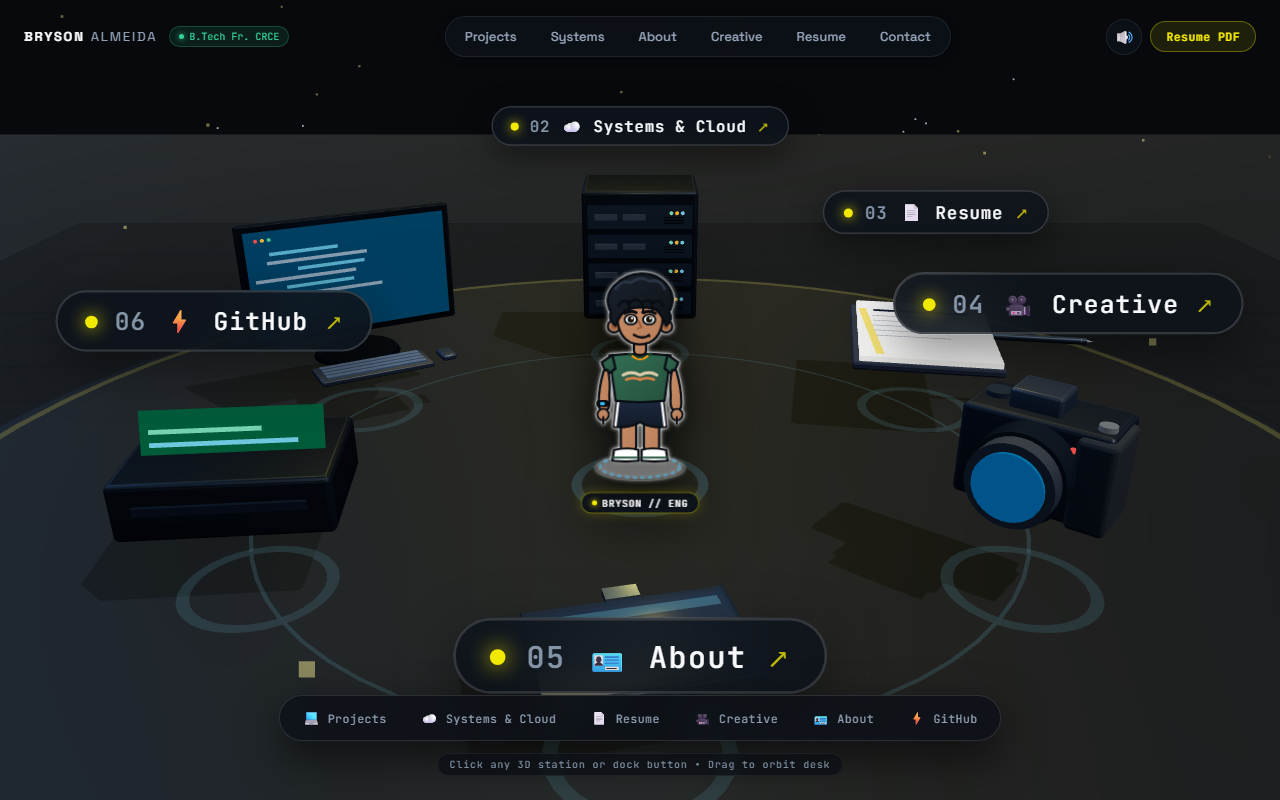
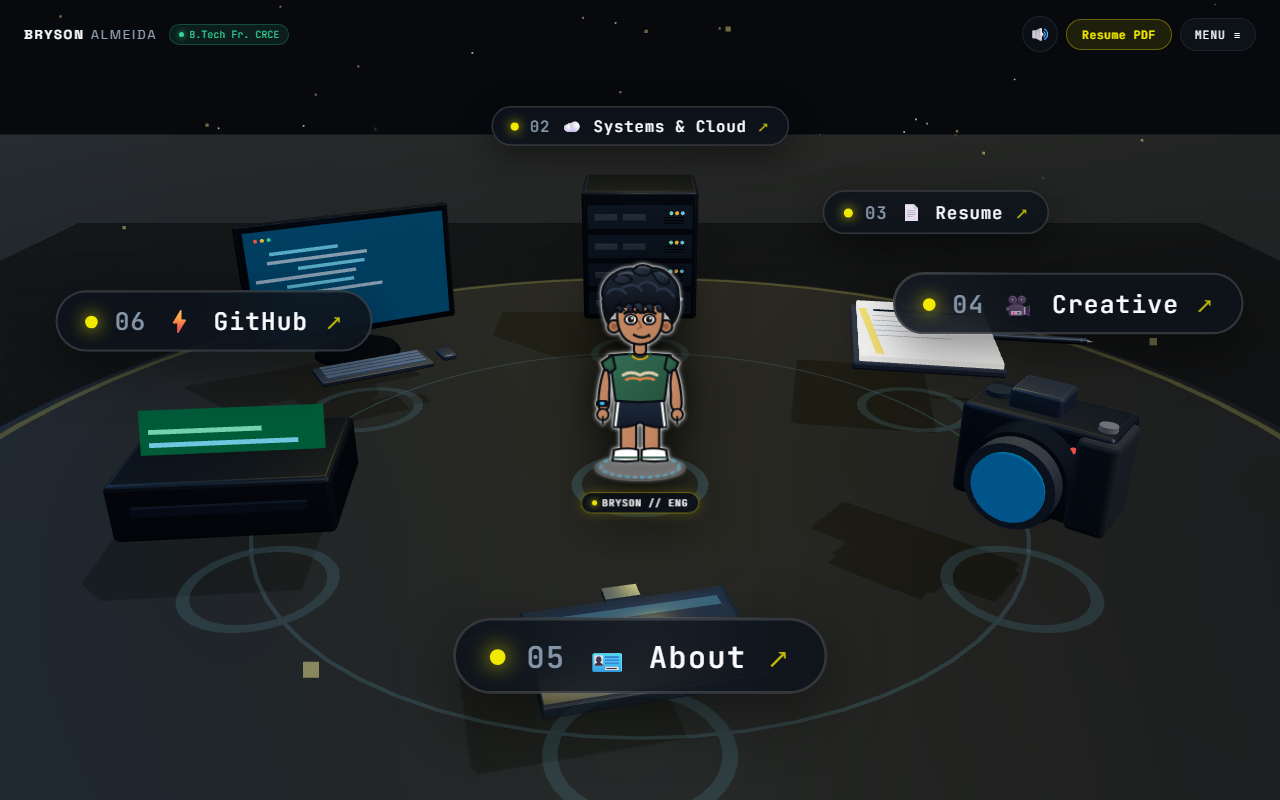
feat: remove redundant top/bottom navigation docks and enhance hair to voluminous curly fringe mop

diff --git a/src/DoodleCharacter.jsx b/src/DoodleCharacter.jsx
@@ -305,9 +305,14 @@ export function DoodleCharacter({
             <stop offset="0%" stopColor="#1E2B40" />
             <stop offset="100%" stopColor="#131B29" />
           </linearGradient>
-          <linearGradient id="hairGrad" x1="0%" y1="0%" x2="100%" y2="100%">
-            <stop offset="0%" stopColor="#1C232E" />
-            <stop offset="100%" stopColor="#0E1217" />
+          <linearGradient id="hairGrad" x1="0%" y1="0%" x2="0%" y2="100%">
+            <stop offset="0%" stopColor="#252F3E" />
+            <stop offset="45%" stopColor="#171F2B" />
+            <stop offset="100%" stopColor="#0B0F16" />
+          </linearGradient>
+          <linearGradient id="hairClumpGrad" x1="0%" y1="0%" x2="100%" y2="100%">
+            <stop offset="0%" stopColor="#2F3C4F" />
+            <stop offset="100%" stopColor="#141B26" />
           </linearGradient>
         </defs>
 
@@ -493,6 +498,20 @@ export function DoodleCharacter({
 
         {/* 6. Head, Eyes, Smirk & Voluminous Curly Hair (Pivot at neck: 140, 120) */}
         <g id="doodle-head" ref={headGroupRef}>
+          {/* Back Curly Hair Silhouette behind ears */}
+          <path
+            d="M98 114
+               C90 100 88 84 94 70
+               C100 56 112 44 126 40
+               C140 36 156 38 168 44
+               C180 50 190 62 192 78
+               C194 92 190 106 182 114
+               C176 96 166 90 154 90
+               C144 90 136 90 126 90
+               C114 90 104 96 98 114 Z"
+            fill="#0B0F16"
+          />
+
           {/* Neck */}
           <rect
             x="132"
@@ -587,52 +606,175 @@ export function DoodleCharacter({
             <path d="M144 106 Q152 110 160 106" fill="url(#skinGrad)" stroke="#0A0E14" strokeWidth="3" />
           </g>
 
-          {/* 7. Voluminous Dark Curly/Wavy Mop-Top Hair (Signature feature from photo) */}
+          {/* 7. Voluminous Dark Curly/Wavy Textured Mop Hair (Signature feature from photo) */}
           <g id="doodle-hair" ref={hairGroupRef}>
-            {/* Base Volume Dome */}
+            {/* Front Voluminous Curly Mop Silhouette */}
             <path
-              d="M102 96 Q92 78 106 62 Q122 46 142 46 Q164 46 176 62 Q188 78 178 96 Q184 106 174 114 Q166 94 158 92 Q142 88 126 92 Q116 94 108 114 Q98 106 102 96 Z"
+              d="M104 100
+                 C94 96 90 86 92 78
+                 C88 68 94 56 104 48
+                 C112 42 122 38 132 40
+                 C138 34 148 34 156 39
+                 C166 38 174 42 182 52
+                 C190 60 192 72 188 82
+                 C190 92 184 98 176 100
+                 C172 92 166 86 160 85
+                 C154 91 149 92 144 86
+                 C139 92 134 92 128 86
+                 C122 91 117 90 114 85
+                 C110 89 106 95 104 100 Z"
               fill="url(#hairGrad)"
               stroke="#0A0E14"
               strokeWidth="3.2"
               strokeLinejoin="round"
             />
-            {/* Curly Texture Clumps on Top Crown */}
+
+            {/* Curly Volume Clumps & Internal Lobes for Deep Texture */}
+            {/* Top-Left Curl Clump */}
             <path
-              d="M108 66 Q116 54 128 58 Q140 48 152 56 Q166 52 172 66"
+              d="M104 54 C112 45 124 46 130 54 C124 62 112 62 104 54 Z"
+              fill="url(#hairClumpGrad)"
+              stroke="#0A0E14"
+              strokeWidth="2.2"
+              strokeLinejoin="round"
+            />
+            {/* High Crown Curl Clump */}
+            <path
+              d="M130 42 C138 35 150 36 156 44 C148 52 136 50 130 42 Z"
+              fill="url(#hairClumpGrad)"
+              stroke="#0A0E14"
+              strokeWidth="2.2"
+              strokeLinejoin="round"
+            />
+            {/* Top-Right Curl Clump */}
+            <path
+              d="M156 44 C166 40 178 48 178 58 C170 64 160 56 156 44 Z"
+              fill="url(#hairClumpGrad)"
+              stroke="#0A0E14"
+              strokeWidth="2.2"
+              strokeLinejoin="round"
+            />
+
+            {/* Glossy Specular Highlights on Curl Crests */}
+            <path
+              d="M112 48 Q122 43 130 46"
               fill="none"
-              stroke="#2B3647"
-              strokeWidth="3.5"
+              stroke="rgba(255, 255, 255, 0.22)"
+              strokeWidth="2.4"
               strokeLinecap="round"
             />
-            {/* Front Bouncy Waves & Loose Curls on Forehead (from photo) */}
             <path
-              d="M112 88 Q118 78 126 84 Q134 76 142 84 Q150 78 158 84 Q166 78 170 88"
+              d="M138 38 Q146 36 152 40"
               fill="none"
-              stroke="#0A0E14"
-              strokeWidth="3.5"
-              strokeLinecap="round"
-            />
-            {/* Loose Curly Fringe Strands */}
-            <path
-              d="M124 84 Q128 92 126 95"
-              fill="none"
-              stroke="#0A0E14"
-              strokeWidth="3"
+              stroke="rgba(255, 255, 255, 0.25)"
+              strokeWidth="2.4"
               strokeLinecap="round"
             />
             <path
-              d="M142 84 Q146 94 143 97"
+              d="M164 44 Q172 46 176 52"
               fill="none"
-              stroke="#0A0E14"
-              strokeWidth="3"
+              stroke="rgba(255, 255, 255, 0.2)"
+              strokeWidth="2.2"
+              strokeLinecap="round"
+            />
+
+            {/* Dynamic Swirling Curl Ribs & Texture Strokes across Mid-Crown */}
+            <path
+              d="M98 72 C104 62 116 66 122 72"
+              fill="none"
+              stroke="#2C384A"
+              strokeWidth="2.8"
               strokeLinecap="round"
             />
             <path
-              d="M154 84 Q158 92 156 95"
+              d="M116 66 C124 58 136 60 142 68"
+              fill="none"
+              stroke="#2C384A"
+              strokeWidth="2.8"
+              strokeLinecap="round"
+            />
+            <path
+              d="M138 62 C146 54 158 56 164 66"
+              fill="none"
+              stroke="#2C384A"
+              strokeWidth="2.8"
+              strokeLinecap="round"
+            />
+            <path
+              d="M162 68 C170 62 180 68 184 76"
+              fill="none"
+              stroke="#2C384A"
+              strokeWidth="2.8"
+              strokeLinecap="round"
+            />
+
+            {/* Signature Textured Forehead Fringe Curls (Framing forehead naturally above brows) */}
+            {/* Left Fringe Curl */}
+            <path
+              d="M108 90 C113 85 119 88 117 95 C115 97 113 97 111 93"
+              fill="url(#hairClumpGrad)"
+              stroke="#0A0E14"
+              strokeWidth="2.6"
+              strokeLinecap="round"
+              strokeLinejoin="round"
+            />
+            {/* Center-Left Bouncy Curl Lock */}
+            <path
+              d="M121 87 C127 82 133 86 130 96 C128 98 125 97 124 93"
+              fill="url(#hairClumpGrad)"
+              stroke="#0A0E14"
+              strokeWidth="2.6"
+              strokeLinecap="round"
+              strokeLinejoin="round"
+            />
+            {/* Center Signature Swirled Curl Lock */}
+            <path
+              d="M133 85 C141 80 146 86 144 96 C142 99 138 98 137 93"
+              fill="url(#hairClumpGrad)"
+              stroke="#0A0E14"
+              strokeWidth="2.8"
+              strokeLinecap="round"
+              strokeLinejoin="round"
+            />
+            {/* Center-Right Forehead Curl */}
+            <path
+              d="M147 87 C154 82 160 87 157 95 C155 98 152 97 150 92"
+              fill="url(#hairClumpGrad)"
+              stroke="#0A0E14"
+              strokeWidth="2.6"
+              strokeLinecap="round"
+              strokeLinejoin="round"
+            />
+            {/* Right Temple Feathered Wave */}
+            <path
+              d="M159 87 C166 83 172 88 168 95 C166 97 163 96 162 91"
+              fill="url(#hairClumpGrad)"
+              stroke="#0A0E14"
+              strokeWidth="2.6"
+              strokeLinecap="round"
+              strokeLinejoin="round"
+            />
+
+            {/* Delicate Accent Curl Wisps on Forehead */}
+            <path
+              d="M119 93 Q121 97 124 96"
               fill="none"
               stroke="#0A0E14"
-              strokeWidth="3"
+              strokeWidth="2"
+              strokeLinecap="round"
+            />
+            <path
+              d="M135 93 Q138 98 141 97"
+              fill="none"
+              stroke="#0A0E14"
+              strokeWidth="2"
+              strokeLinecap="round"
+            />
+            <path
+              d="M149 93 Q152 97 155 96"
+              fill="none"
+              stroke="#0A0E14"
+              strokeWidth="2"
               strokeLinecap="round"
             />
           </g>

diff --git a/src/App.jsx b/src/App.jsx
@@ -866,15 +866,6 @@ export default function App() {
     { id: "github", label: "GitHub", icon: "⚡", n: "06" },
   ];
 
-  const labelMap = {
-    projects: "01 • MONITOR — Selected Projects (Click to open)",
-    systems: "02 • BLADE SERVER — Cloud & Systems Architecture (Click)",
-    resume: "03 • NOTEBOOK — Curriculum Vitae & Resume (Click)",
-    creative: "04 • CAMERA — Video Editing & YouTube Media (Click)",
-    about: "05 • ID BADGE — About Bryson & Journey (Click)",
-    github: "06 • TERMINAL — Live GitHub Repositories (Click)",
-  };
-
   // Keyboard Shortcuts
   useEffect(() => {
     const handleKey = (e) => {
@@ -919,52 +910,6 @@ export default function App() {
             <span className="live-dot" /> B.Tech Fr. CRCE
           </span>
         </div>
-
-        {/* Desktop Quick Nav */}
-        <nav className="top-nav" aria-label="Main Navigation">
-          <button
-            className={`top-nav-btn ${panel === "projects" ? "active" : ""}`}
-            onMouseEnter={() => triggerBlip("hover")}
-            onClick={() => openPanel("projects")}
-          >
-            Projects
-          </button>
-          <button
-            className={`top-nav-btn ${panel === "systems" ? "active" : ""}`}
-            onMouseEnter={() => triggerBlip("hover")}
-            onClick={() => openPanel("systems")}
-          >
-            Systems
-          </button>
-          <button
-            className={`top-nav-btn ${panel === "about" ? "active" : ""}`}
-            onMouseEnter={() => triggerBlip("hover")}
-            onClick={() => openPanel("about")}
-          >
-            About
-          </button>
-          <button
-            className={`top-nav-btn ${panel === "creative" ? "active" : ""}`}
-            onMouseEnter={() => triggerBlip("hover")}
-            onClick={() => openPanel("creative")}
-          >
-            Creative
-          </button>
-          <button
-            className={`top-nav-btn ${panel === "resume" ? "active" : ""}`}
-            onMouseEnter={() => triggerBlip("hover")}
-            onClick={() => openPanel("resume")}
-          >
-            Resume
-          </button>
-          <button
-            className={`top-nav-btn ${panel === "contact" ? "active" : ""}`}
-            onMouseEnter={() => triggerBlip("hover")}
-            onClick={() => openPanel("contact")}
-          >
-            Contact
-          </button>
-        </nav>
 
         {/* Action Tools */}
         <div className="top-actions">
@@ -1091,37 +1036,6 @@ export default function App() {
                 clickedStation={clickedStation}
                 reducedMotion={reducedMotion}
               />
-            </div>
-
-            {/* Hover Indicator Pill at Top */}
-            <div className={`hover-label ${hovered ? "" : "hidden"}`} role="status" aria-live="polite">
-              <span className="dot" aria-hidden="true" />
-              <span>{hovered ? labelMap[hovered] : "Hover an object"}</span>
-            </div>
-
-            {/* Bottom Station Dock: Fast 1-Click Access to Every Section */}
-            <div className="station-dock-wrap">
-              <div className="station-dock" role="navigation" aria-label="3D Stations">
-                {stations.map((s) => (
-                  <button
-                    key={s.id}
-                    className={`station-dock-btn ${hovered === s.id ? "active" : ""}`}
-                    aria-label={`Open ${s.label} station (${s.n})`}
-                    onMouseEnter={() => {
-                      setHovered(s.id);
-                      triggerBlip("hover");
-                    }}
-                    onMouseLeave={() => setHovered(null)}
-                    onClick={() => openPanel(s.id)}
-                  >
-                    <span className="dock-icon">{s.icon}</span>
-                    <span>{s.label}</span>
-                  </button>
-                ))}
-              </div>
-              <div className="dock-hint">
-                Click any 3D station or dock button • Drag to orbit desk
-              </div>
             </div>
           </>
         )}

diff --git a/src/index.css b/src/index.css
@@ -414,7 +414,9 @@ button {
 }
 
 .menu-btn {
-  display: none;
+  display: inline-flex;
+  align-items: center;
+  gap: 6px;
   background: rgba(14, 19, 27, 0.85);
   backdrop-filter: blur(10px);
   border: 1px solid var(--border);
@@ -430,17 +432,6 @@ button {
 .menu-btn:hover {
   background: var(--card-hover);
   border-color: var(--border-hover);
-}
-
-@media (max-width: 960px) {
-  .top-nav {
-    display: none;
-  }
-  .menu-btn {
-    display: inline-flex;
-    align-items: center;
-    gap: 6px;
-  }
 }
 
 /* Bottom Interactive Station Dock */
